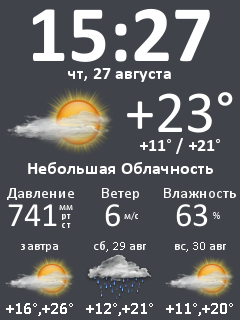
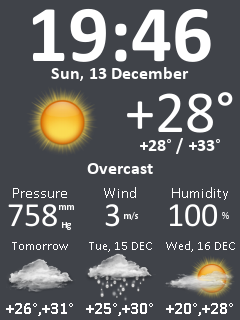
Language files added. Fahrenheit support added.

diff --git a/rpiWSi/ws_drawing.py b/rpiWSi/ws_drawing.py
@@ -136,11 +136,11 @@ def draw_data(screen,page,data,angle):
  
      #Давление влажность ветер (заголовки)
     yy=186
-    text=u"Давление"
+    text=str_pressure
     draw_text(screen,text,'fonts/calibri.ttf',16, 0               , yy, screen_width/3,"center",WHITE,BACK)
-    text=u"Ветер"
+    text=str_wind
     draw_text(screen,text,'fonts/calibri.ttf',16, screen_width/3  , yy, screen_width/3,"center",WHITE,BACK)
-    text=u"Влажность"
+    text=str_humidity
     draw_text(screen,text,'fonts/calibri.ttf',16, screen_width/3*2, yy, screen_width/3,"center",WHITE,BACK)
 
     #Давление влажность ветер(данные)
@@ -162,18 +162,18 @@ def draw_data(screen,page,data,angle):
     yy=pressure_rect.top+2
     xx=pressure_rect.left+pressure_rect.width+4
     ww=ww
-    text=u"мм"
+    text=str_pressure_units_line_1
     p_ei=draw_text(screen,text,'fonts/calibri.ttf',10, xx , yy, ww,"center",WHITE,BACK)
-    text=u"рт"
+    text=str_pressure_units_line_2
     yy=pressure_rect.top+pressure_rect.height/3
     p_ei=draw_text(screen,text,'fonts/calibri.ttf',10, xx , yy, ww,"center",WHITE,BACK)
     yy=pressure_rect.top+pressure_rect.height/3*2-2
-    text=u"ст"
+    text=str_pressure_units_line_3
     p_ei=draw_text(screen,text,'fonts/calibri.ttf',10, xx , yy, ww,"center",WHITE,BACK)
     
     yy=wind_rect.top+humidity_rect.height/3
     xx=wind_rect.left+wind_rect.width+6
-    text=u"м/с"
+    text=str_wind_speed
     p_ei=draw_text(screen,text,'fonts/calibri.ttf',10, xx , yy, ww,"center",WHITE,BACK)
     
     yy=humidity_rect.top+humidity_rect.height/3
@@ -183,7 +183,7 @@ def draw_data(screen,page,data,angle):
     
      #dates for forecast
     yy=240
-    text=u"завтра"
+    text=str_tomorrow
     rr=draw_text(screen,text,'fonts/calibri.ttf',13, 0               , yy, screen_width/3,"center",WHITE,BACK)
     
     

diff --git a/rpiWSi/ws_globals.py b/rpiWSi/ws_globals.py
@@ -1,74 +1,8 @@
 #!/usr/bin/env python
 # -*- coding: utf-8 -*-
 import os
+from settings import *
 
-#weather underground api key NEED TO CHANGE
-wu_api_key = 'b12345abcd9ffda0a51f'
-wu_api_key = 'b5abcd9ffda0a51f'
-
-#gps coordinates NEED TO CHANGE
-wu_gps_coordinates = '55.6890593,37.2906527'
-#weather underground api language
-wu_language = 'RU'
-
-#do not change!
-wu_icon_set = 'k'
-
-#choose you temperature units (C/F)
-temperature_inits="celsius"
-#temperature_inits="fahrenheit"
-
-
-#debug=False
-debug=True
-show_rect = False
-#show_rect = True
-
-web_server_port=8080
-
-#sensors_request_string = u"http://192.168.99.13/sensors"
-#sensors_request_string = "test"
-
-screen_width,screen_height = 240,320
-
-days_of_week={1:u"пн",
-              2:u"вт",
-              3:u"ср",
-              4:u"чт",
-              5:u"пт",
-              6:u"сб",
-              0:u"вс"}
-
-months={
-        1 :u"января",
-        2 :u"февраля",
-        3 :u"марта",
-        4 :u"апреля",
-        5 :u"мая",
-        6 :u"июня",
-        7 :u"июля",
-        8 :u"августа",
-        9 :u"сентября",
-        10:u"октября",
-        11:u"ноября",
-        12:u"декабря",
-        }
-
-
-short_months={
-        1 :u"янв",
-        2 :u"фев",
-        3 :u"мар",
-        4 :u"апр",
-        5 :u"мая",
-        6 :u"июн",
-        7 :u"июл",
-        8 :u"авг",
-        9 :u"сен",
-        10:u"окт",
-        11:u"ноя",
-        12:u"дек",
-        }
 WHITE = (255, 255, 255)
 GREEN = (0, 255, 0)
 BLUE = (0, 0, 128)
@@ -76,6 +10,10 @@ BLACK = (0,0,0)
 BACK = (64,67,73)
 
 app_dir = os.path.dirname(__file__) 
+
+show_rect = False
+#show_rect = True
+
 
 if __name__=="__main__":
     import rpiWSi,os
